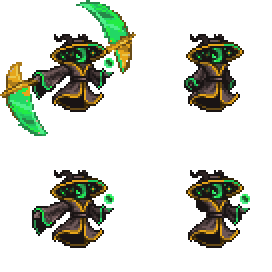
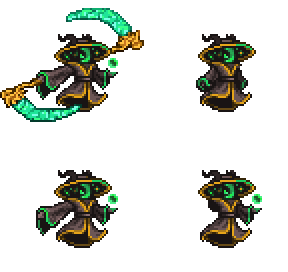
+ Resprited Orator

diff --git a/Content/NPCs/Bosses/Orator/TheOrator.cs b/Content/NPCs/Bosses/Orator/TheOrator.cs
@@ -1623,7 +1623,7 @@ public class TheOrator : ModNPC
         if (scytheSlice || scytheSpin)
         {
             NPC.frame.Y = frameHeight;
-            NPC.frame.X = frameHeight;
+            NPC.frame.X = 144;
         }
         else if (AIState == States.DarkStorm || AIState == States.DarkEmbrace || AIState == States.DarkMonster || AIState == States.DarkCollision || Main.projectile.Any(p => p.active && p.type == ModContent.ProjectileType<OratorScythe>()))
         {
@@ -1632,7 +1632,7 @@ public class TheOrator : ModNPC
         }
         else if (AIState == States.DarkFlight || AIState == States.DarkSpawn || AIState == States.DarkBarrage || AIState == States.DarkTides || AIState == States.Defeat || AIState == States.PhaseChange)
         {
-            NPC.frame.X = frameHeight;
+            NPC.frame.X = 144;
             NPC.frame.Y = 0;
         }
         else
